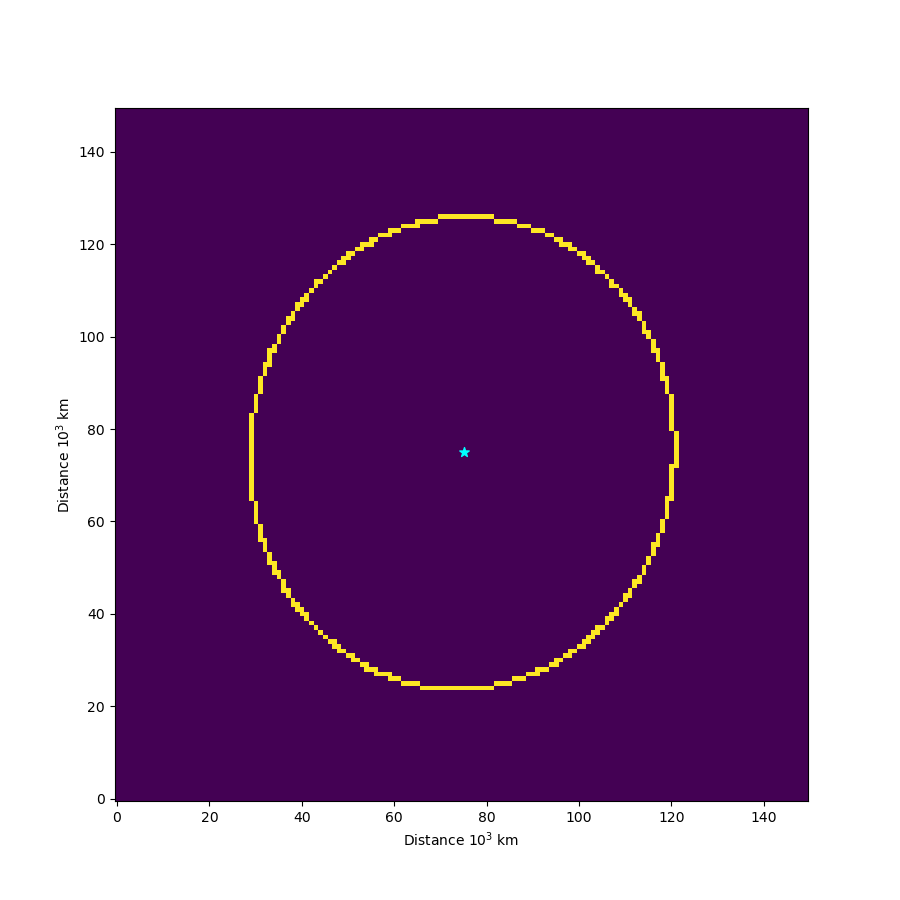
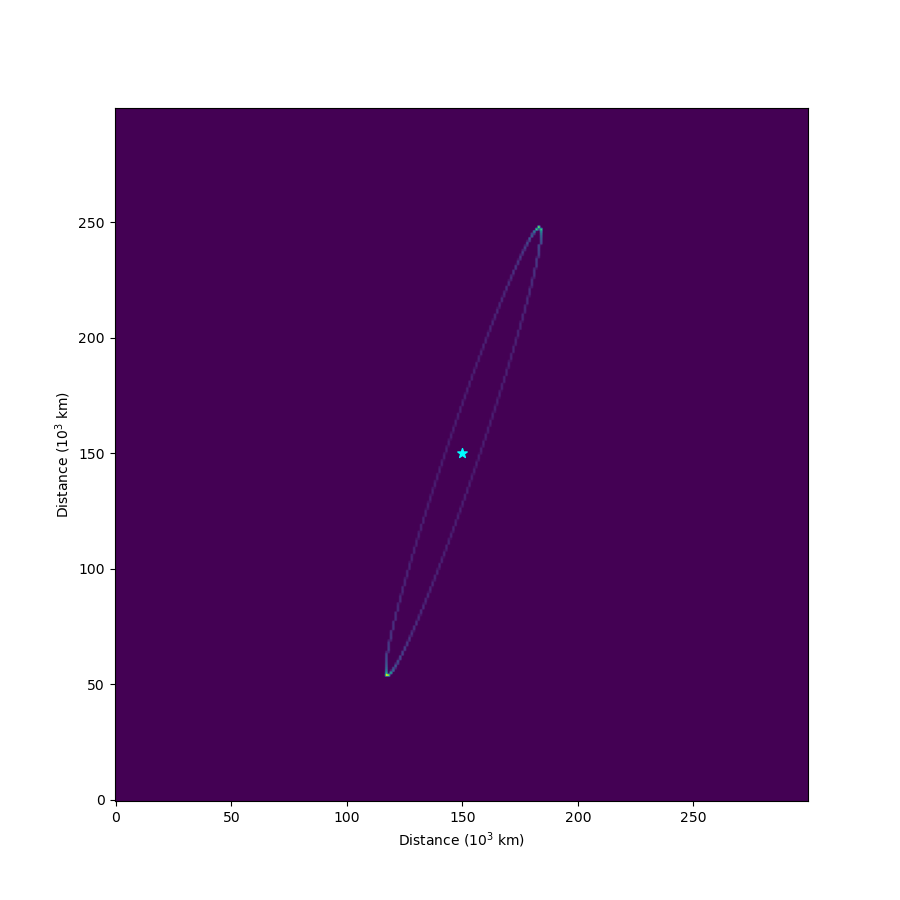
getting ring geometry closer to correct; tests still needed

diff --git a/pylanetary/rings/core.py b/pylanetary/rings/core.py
@@ -32,12 +32,13 @@ class Ring:
 
         Parameters
         ----------
-        a : semimajor axis
+        a : semimajor axis. assumes km if not an astropy Quantity
         e : eccentricity
-        Omega : longitude of ascending node
-        i : inclination
-        w : argument of periapsis
-        width : float or Quantity, optional. default 1 km (i.e., very thin)
+        Omega : longitude of ascending node. assumes degrees if not an astropy Quantity
+        i : inclination. assumes degrees if not an astropy Quantity
+        w : argument of periapsis. assumes degrees if not an astropy Quantity
+        width : float or Quantity, optional. default 1 km (i.e., very thin). 
+            assumes km if not an astropy Quantity
         flux : float or Quantity, optional. default 1.0.
         
         Attributes
@@ -47,7 +48,7 @@ class Ring:
         omega : longitude of ascending node
         i : inclination
         w : argument of periapsis
-        width : 
+        width : ring width; semimajor axis a is at center.
         flux : 
         
         
@@ -59,9 +60,9 @@ class Ring:
         
         self.a = u.Quantity(a, unit=u.km)
         self.e = e
-        self.omega = u.Quantity(omega, unit=u.deg)
-        self.i = u.Quantity(i, unit=u.deg)
-        self.w = u.Quantity(w, unit=u.deg)
+        self.omega = Angle(omega, u.deg)
+        self.i = Angle(i, u.deg)
+        self.w = Angle(w, u.deg)
         self.width = u.Quantity(width, unit=u.km)
         self.flux = flux
         
@@ -79,27 +80,45 @@ class Ring:
         return f'Ring instance; a={self.a}, e={self.e}, i={self.i}, width={self.width}'
     
             
-    def as_elliptical_annulus(shape, pixscale, width, center = None):
+    def as_elliptical_annulus(self, focus, pixscale, width=None):
         '''
         return elliptical annulus surrounding the ring of the given width
+        in pixel space
         
-        
+        focus : tuple, required. location of planet (one ellipse focus) in pixels
+        pixscale : float or Quantity, required. assumes km if not an astropy Quantity
+        width : 
         '''
         
-        if center is None:
-            center = (data.shape[0]/2.0, data.shape[1]/2.0)
+        if width is None:
+            width = self.width
+        pixscale = u.Quantity(pixscale, unit=u.km)
+            
+        # convert between focus and center of ellipse based on eccentricity
+        c = self.e*self.a / pixscale # distance of focus from center
+        cy = c*np.sin(self.w.radian)
+        cx = c*np.cos(self.w.radian)
+        center = (focus[0] - cx, focus[1] - cy)
+        
+        def b_from_ae(a,e):
+            return a*np.sqrt(1 - e**2)
+        
+        a_in = ((self.a - width/2.)/pixscale).value
+        a_out = ((self.a + width/2.)/pixscale).value
+        b_out = b_from_ae(a_out,self.e) # account for eccentricity
+        b_out = abs(b_out * np.cos(self.i)).value # account for inclination, which effectively shortens b even more
         ann = aperture.EllipticalAnnulus(center, 
-                            a_in=self.a - width/2., 
-                            a_out=self.a + width/2., 
-                            b_out= abs((self.a + width/2.) * np.sin(90*u.deg - self.i)).value, 
+                            a_in=a_in, 
+                            a_out=a_out, 
+                            b_out=b_out, 
                             b_in= None, 
-                            theta = Angle(self.w, 'deg'))
+                            theta = self.w.to(u.radian).value)
                             
         # test whether the angles coming in here are actually correct
         
         return ann
         
-    def as_keplers3rd_wedges(width, n):
+    def as_keplers3rd_wedges(self, width, n):
         '''
         return n partial elliptical annulus wedges with equal orbital time spent in each
         useful for ring as f(azimuth) because should take out foreshortening correction
@@ -111,7 +130,7 @@ class Ring:
         
         return ann_list
         
-    def as_orbit(T=1, tau=0):
+    def as_orbit(self, T=1, tau=0):
         '''
         make a PyAstronomy.KeplerEllipse object at the ring's orbit
         to get position of ring particles as a function of time
@@ -143,7 +162,7 @@ class Ring:
         ke = pyasl.KeplerEllipse(self.a, T, tau = self.tau, e = self.e, Omega = self.omega, i = self.i, w = self.w)
         return ke
         
-    def as_2d_array(self, shape, pixscale, opening_angle=90.*u.deg, center=None, width=None, flux=None, beamsize=None):
+    def as_2d_array(self, shape, pixscale, opening_angle=90.*u.deg, focus=None, width=None, flux=None, beamsize=None):
         '''
         return a 2-d array that looks like a mock observation
         optional smearing over Gaussian beam
@@ -154,6 +173,9 @@ class Ring:
         pixscale : float/int or astropy Quantity, required. pixel scale
             of the output image. If float/int (i.e. no units specified), then
             kilometers is assumed
+        opening_angle : astropy Angle 
+        focus : tuple, optional. pixel location of planet around which ring orbits. 
+            if not specified, center of image is assumed
         width : float/int or astropy Quantity. If float/int (i.e. no units specified), then
             kilometers is assumed
         flux : float/int or astropy Quantity. sets brightness of the array
@@ -184,18 +206,11 @@ class Ring:
         pixscale = u.Quantity(pixscale, u.km)
 
         # put the ring onto a 2-D array using EllipticalAnnulus
-        if center is None:
-            center = (shape[0]/2.0, shape[1]/2.0)
+        if focus is None:
+            focus = (shape[0]/2.0, shape[1]/2.0)
             
-        ann = aperture.EllipticalAnnulus(center, 
-                            a_in=((self.a - width/2.)/pixscale).value, 
-                            a_out=((self.a + width/2.)/pixscale).value, 
-                            b_out= (abs((self.a + width/2.) * np.sin(90*u.deg - self.i))/pixscale).value, 
-                            theta = self.w.to(u.radian)
-                            )
+        ann = self.as_elliptical_annulus(focus, pixscale, width)
         arr_sharp = ann.to_mask(method='exact').to_image(shape)
-        
-        # project to opening angle
         
         if beamsize is None:
             return arr_sharp
@@ -231,7 +246,7 @@ class RingSystemModelObservation:
             latitude should be anything that initializes an
             `~astropy.coordinates.Angle` object, and altitude should
             initialize an `~astropy.units.Quantity` object (with units
-            of length).  If ``None``, then the geocenter is used.
+            of length).  If ``None``, then the geofocus is used.
         ringnames : list, optional. which rings to include in the model
             if no ringnames provided then all rings are assumed.
             Case-sensitive! Typically capitalized, e.g. "Alpha"
@@ -316,7 +331,7 @@ class RingSystemModelObservation:
         
         
         
-    def as_2d_array(self, shape, pixscale, center=None, beamsize=None):
+    def as_2d_array(self, shape, pixscale, focus=None, beamsize=None):
         '''
         return a 2-d array that looks like a mock observation
         optional smearing over Gaussian beam
@@ -347,7 +362,7 @@ class RingSystemModelObservation:
         arr_out = np.zeros(shape)
         for ringname in self.rings.keys():
             
-            arr_out += self.rings[ringname].as_2d_array(shape, pixscale, center=center, beamsize=None)
+            arr_out += self.rings[ringname].as_2d_array(shape, pixscale, focus=focus, beamsize=None)
         
         ## project this onto the observer plane using ring opening angle and north pole angle
         r = Rotation('xyz', [self.systemtable['sub_obs_lon'], 0, 90*u.deg - self.systemtable[opening_angle]], degrees=True)

diff --git a/pylanetary/rings/ringnode_query_tester_delete_later.py b/pylanetary/rings/ringnode_query_tester_delete_later.py
@@ -13,9 +13,26 @@ cd ~/Python/pylanetary/pylanetary/rings
 tested:
     coordinates passed in as tuple
     coordinates passed in as EarthLocation object
-    obs_time passed in as string
+    epoch passed in as string
     
 '''
+
+import numpy as np
+
+def test_prints(systemtable, bodytable, ringtable):
+    
+    print('----------------------------------------------')
+    print('System-wide data')
+    for key in systemtable.keys():
+        print(key, systemtable[key])
+    print('----------------------------------------------')
+    print('Small moons data')
+    print(bodytable)
+    print('----------------------------------------------')
+    print('Individual ring data')
+    #print(ringtable.loc['ring','Epsilon']['ascending node'])
+    print(ringtable)
+    
 
 import astropy.units as u
 from astropy.coordinates import EarthLocation, Angle
@@ -24,59 +41,62 @@ from astropy.time import Time
 from astroquery.solarsystem.pds import RingNode
 
 from nirc2_reduce import image
-from almatools import rings
 import matplotlib.pyplot as plt
+
+# fix relative imports later
+from core import Ring
 
 infile = '/Users/emolter/research/alma/data/rings_paper/fitsimages/band3_all_briggs0.fits'
 alma_coords = (-23.029 * u.deg, -67.755 * u.deg, 5000 * u.m) #lat, lon, alt(m)
 alma_coords_astropy = EarthLocation(alma_coords[0], alma_coords[1], alma_coords[2])
 alma_image = image.Image(infile)
-#obs_time = ' '.join(alma_image.header['DATE-OBS'].split('T'))[:16]
-obs_time = '2024-05-08 22:39'
-print('obs_time', obs_time)
-obs_time_astropy = Time(obs_time, format = 'iso', scale = 'utc')
+#epoch = ' '.join(alma_image.header['DATE-OBS'].split('T'))[:16]
+epoch = '2008-05-08 22:39'
+print('epoch', epoch)
+epoch_astropy = Time(epoch, format = 'iso', scale = 'utc')
 
 # send query to Planetary Ring Node
 node = RingNode()
-systemtable, bodytable, ringtable = node.ephemeris(
-            planet="Neptune", obs_time=obs_time_astropy, location=alma_coords_astropy, cache=False)
-print(node.uri)
-print(systemtable.keys())
-print(bodytable.columns)
-print(ringtable.columns)
+bodytable, ringtable = node.ephemeris(
+            planet="Uranus", epoch=epoch_astropy, location=alma_coords_astropy, cache=False)
+systemtable = bodytable.meta
+#test_prints(systemtable, bodytable, ringtable)
 
-print('----------------------------------------------')
-print('System-wide data')
-for i, key in enumerate(systemtable):
-    print(key, systemtable[key])
-print('----------------------------------------------')
-print('Small moons data')
-print(bodytable)
-print('----------------------------------------------')
-print('Individual ring data')
-#print(ringtable.loc['ring','Epsilon']['ascending node'])
-print(ringtable)
 
 
 # non-changing Epsilon ring params
-a = 51.149 #10^3 km
+a = 51149 #km
 T = 1 #does not matter
-tau = 0.0 # time of periapsis passage, does not matter
+tau = 0.0 # time of periapsis passage, does not matter for now
 e = 0.00794
+
+imsize = 300 #pixels
+pixscale = 500 #km
+
+'''
+Two problems to solve:
+1. ring model does not account for eccentricity when projecting to 2-D array
+2. when accounting for eccentricity, need to make Uranus at one focus, not at center
+'''
 
 # params that do change
 omega = systemtable['sub_obs_lon'] + ringtable.loc['ring','Epsilon']['ascending node'].value
-i = 90 - systemtable['opening_angle'].value
-w = ringtable.loc['ring','Epsilon']['pericenter'].value
+#i = 90 - systemtable['opening_angle'].value
+i = 90 + systemtable['opening_angle'].value
+w = ringtable.loc['ring','Epsilon']['pericenter']
 
+# custom play with these values
+#w = 45
+#e = 0.4
 
-ringmodel = rings.ringModel(a, T, tau, e, omega, i, w, steps = 500)
-ringmodel.to_2d_array(150, 150)
+ringmodel = Ring(a, e, omega, i, w)
+img = ringmodel.as_2d_array((imsize, imsize), pixscale) #shape (pixels), pixscale (km)
 
 fig, ax = plt.subplots(1,1, figsize = (9,9))
 
-ax.imshow(ringmodel.img, origin = 'lower')
-ax.set_xlabel(r'Distance 10$^3$ km')
-ax.set_ylabel(r'Distance 10$^3$ km')
-ax.scatter([75],[75], color = 'cyan', marker = '*', s = 50)
+ax.imshow(img, origin = 'lower')
+ax.set_xlabel(r'Distance (10$^3$ km)')
+ax.set_ylabel(r'Distance (10$^3$ km)')
+ax.scatter([imsize/2],[imsize/2], color = 'cyan', marker = '*', s = 50, label = 'center of Uranus')
 plt.savefig('example_epsilon_ring.png')
+plt.show()
